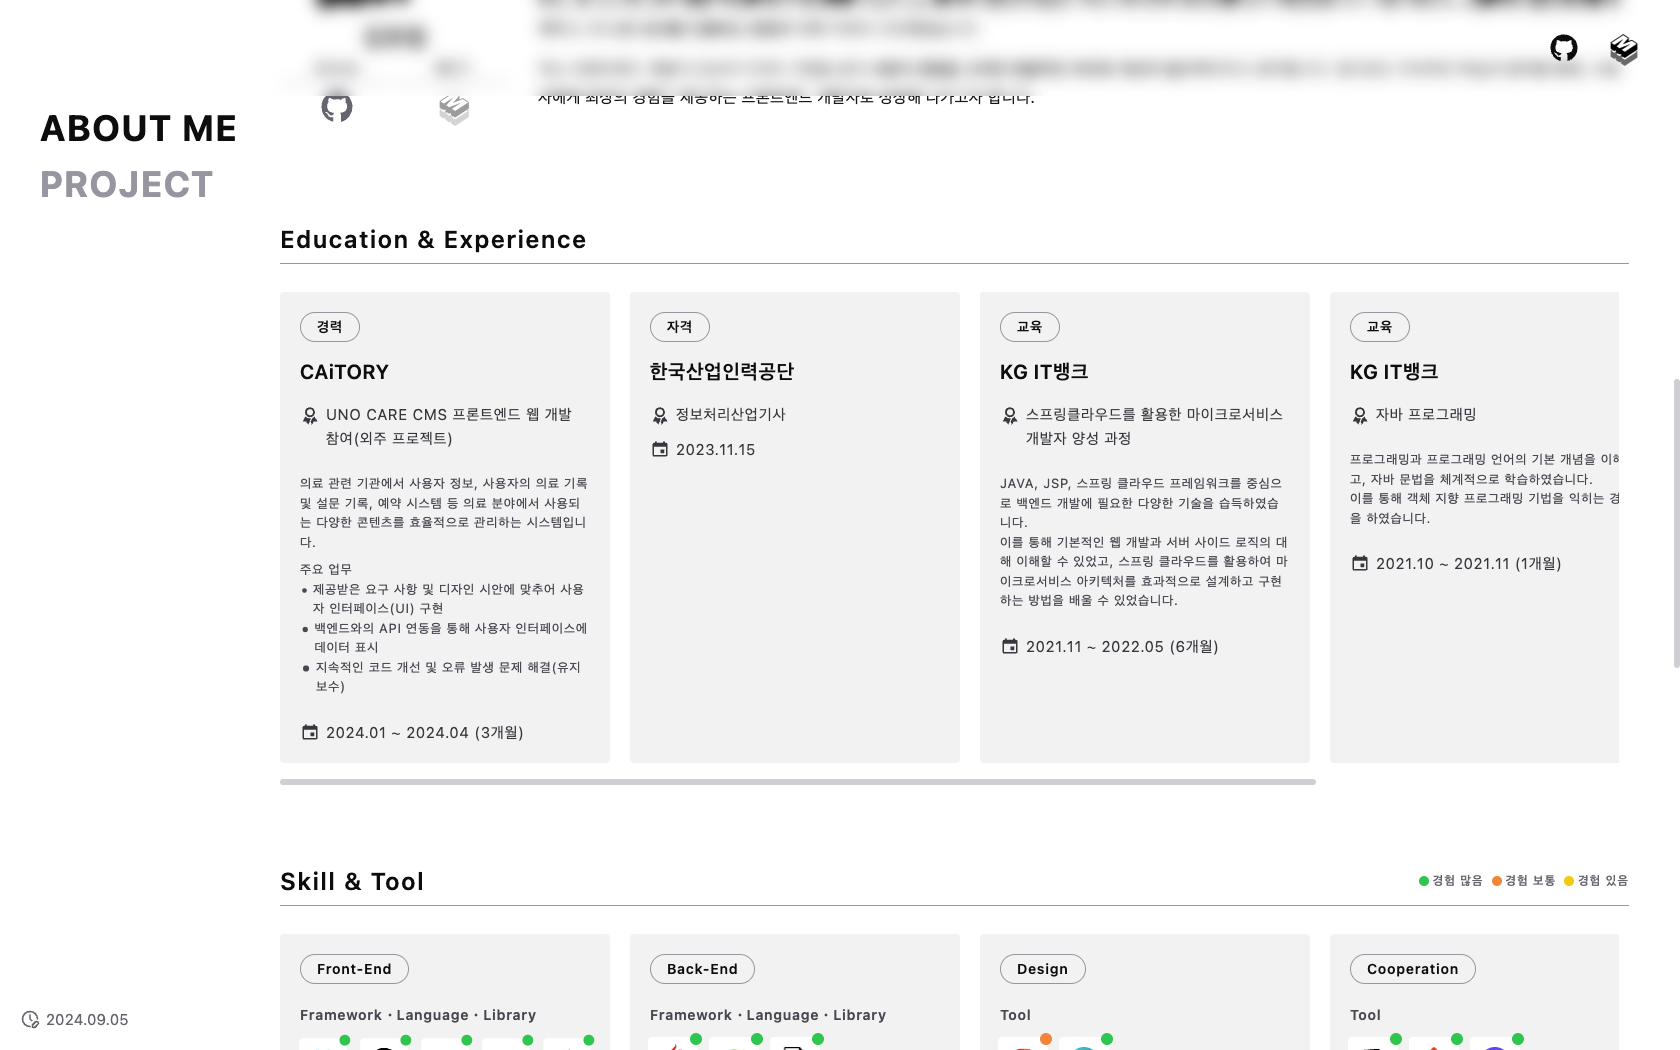
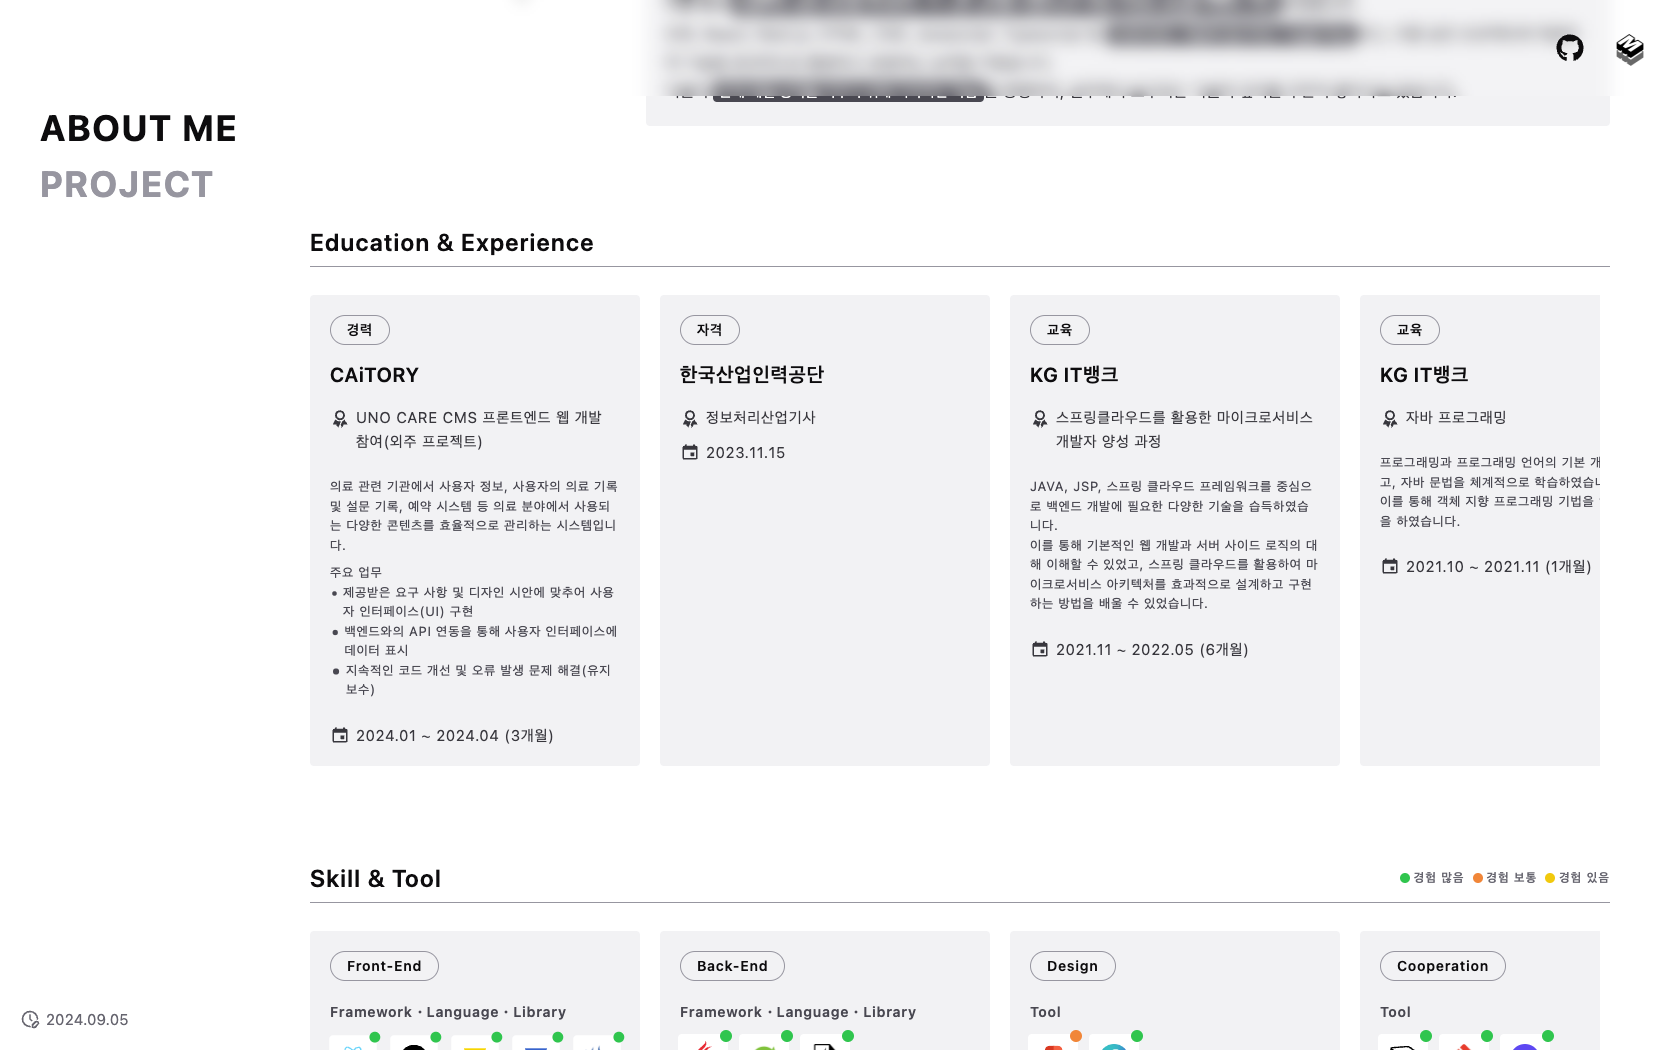
update

diff --git a/src/css/globals.css b/src/css/globals.css
@@ -16,53 +16,11 @@
         --primary-foreground: 0 0% 98%;
         --secondary: 240 4.8% 95.9%;
         --secondary-foreground: 240 5.9% 10%;
-        --muted: 240 4.8% 95.9%;
-        --muted-foreground: 240 3.8% 46.1%;
-        --accent: 240 4.8% 95.9%;
+        --accent: 240 6% 90%;
         --accent-foreground: 240 5.9% 10%;
         --destructive: 0 84.2% 60.2%;
         --destructive-foreground: 0 0% 98%;
         --border: 240 5.9% 90%;
-        --input: 240 5.9% 90%;
-        --ring: 240 5.9% 10%;
-        /*--background: 0 0% 100%;*/
-        /*--foreground: 0 0% 98%;*/
-        /*--card: 240 10% 3.9%;*/
-        /*--card-foreground: 0 0% 98%;*/
-        /*--popover: 240 10% 3.9%;*/
-        /*--popover-foreground: 0 0% 98%;*/
-        /*--primary: 0 0% 98%;*/
-        /*--primary-foreground: 240 5.9% 10%;*/
-        /*--secondary: 240 5% 84%;*/
-        /*--secondary-foreground: 0 0% 98%;*/
-        /*--muted: 240 5% 84%;*/
-        /*--muted-foreground: 240 5% 64.9%;*/
-        /*--accent: 240 3.7% 15.9%;*/
-        /*--accent-foreground: 0 0% 98%;*/
-        /*--destructive: 0 62.8% 30.6%;*/
-        /*--destructive-foreground: 0 0% 98%;*/
-        /*--border: 240 3.7% 15.9%;*/
-        /*--input: 240 3.7% 15.9%;*/
-        /*--ring: 240 4.9% 83.9%;*/
-        /*--background: 0 0% 100%;*/
-        /*--foreground: 20 14.3% 4.1%;*/
-        /*--card: 0 0% 100%;*/
-        /*--card-foreground: 20 14.3% 4.1%;*/
-        /*--popover: 0 0% 100%;*/
-        /*--popover-foreground: 20 14.3% 4.1%;*/
-        /*--primary: 24 9.8% 10%;*/
-        /*--primary-foreground: 60 9.1% 97.8%;*/
-        /*--secondary: 60 4.8% 95.9%;*/
-        /*--secondary-foreground: 24 9.8% 10%;*/
-        /*--muted: 60 4.8% 95.9%;*/
-        /*--muted-foreground: 25 5.3% 44.7%;*/
-        /*--accent: 60 4.8% 95.9%;*/
-        /*--accent-foreground: 24 9.8% 10%;*/
-        /*--destructive: 0 84.2% 60.2%;*/
-        /*--destructive-foreground: 60 9.1% 97.8%;*/
-        /*--border: 20 5.9% 90%;*/
-        /*--input: 20 5.9% 90%;*/
-        /*--ring: 20 14.3% 4.1%;*/
     }
 
     * {
@@ -73,42 +31,6 @@
         @apply bg-background text-foreground;
         margin: 0;
     }
-}
-
-/* 기본 전체 스크롤바 커스텀 */
-::-webkit-scrollbar {
-    width: 6px; /* 스크롤바의 너비 */
-    height: 6px; /* 스크롤바의 너비 */
-}
-
-/* 기본 스크롤바의 트랙(바탕) */
-::-webkit-scrollbar-track {
-    background: hsl(var(--background)); /* 트랙의 색상 */
-}
-
-/* 기본 스크롤바의 슬라이더(움직이는 부분) */
-::-webkit-scrollbar-thumb {
-    background-color: #d4d4d8; /* 슬라이더의 색상 */
-    border-radius: 10px; /* 슬라이더의 둥글기 */
-    border: 3px solid #d4d4d8; /* 슬라이더의 테두리 및 트랙과의 간격 */
-}
-
-/* Project_상세 뷰 스크롤바 전체 */
-.overflow-y-auto::-webkit-scrollbar {
-    width: 6px; /* 스크롤바의 너비 */
-    height: 6px; /* 스크롤바의 높이 */
-}
-
-/* Project_상세 뷰 스크롤바 트랙(바탕) */
-.overflow-y-auto::-webkit-scrollbar-track {
-    background: hsl(var(--secondary)); /* 트랙의 색상 */
-}
-
-/* Project_상세 뷰 스크롤바 슬라이더(움직이는 부분) */
-.overflow-y-auto::-webkit-scrollbar-thumb {
-    background-color: #a1a1aa; /* 슬라이더의 색상 */
-    border-radius: 10px; /* 슬라이더의 둥글기 */
-    border: 3px solid #a1a1aa; /* 슬라이더의 테두리 및 트랙과의 간격 */
 }
 
 /* 메인 페이지 스크롤 버튼 효과 */

diff --git a/src/app/page.tsx b/src/app/page.tsx
@@ -4,6 +4,9 @@ import Content from "@/components/Content";
 import {useEffect, useState} from "react";
 import "animate.css";
 import {MdKeyboardArrowDown} from "react-icons/md";
+import {Separator} from "@/components/ui/separator";
+import {BsMouse} from "react-icons/bs";
+import {TbHandClick} from "react-icons/tb";
 
 const Home = () => {
 
@@ -111,10 +114,10 @@ const Home = () => {
                     </div>
 
                     <div
-                        className="fixed min-w-[100vw] min-h-[100vh] animate__animated animate__slideInUp delay-5300">
-                        <div className="w-[100%]">
-                            <div className="hover__wrap flex justify-center items-end mb-[50px] h-[100vh]">
-                                <div className="hover__updown cursor-pointer" onClick={handleDown}>
+                        className="fixed flex flex-col justify-end items-center min-h-[100vh] min-w-[100vw]">
+                        <div className="animate__animated animate__slideInUp delay-5300">
+                            <div className="hover__wrap">
+                                <div className="hover__updown cursor-pointer pb-20" onClick={handleDown}>
                                     <figure className="front">
                                         <div
                                             className="flex flex-col justify-center items-center w-[90px] h-[90px] bg-transparent shadow-md rounded-full">
@@ -123,10 +126,14 @@ const Home = () => {
                                     </figure>
                                     <figure className="back">
                                         <div
-                                            className="w-[90px] h-[90px] bg-white bg-opacity-20 shadow-md rounded-full"></div>
+                                            className="w-[90px] h-[90px] bg-transparent shadow-md rounded-full"></div>
                                         <figcaption
-                                            className="bg-white bg-opacity-30 w-[120%] h-[120%] shadow-md rounded-full absolute flex flex-col justify-center items-center">
-                                            <div className="text-zinc-700">Click or Scroll</div>
+                                            className="bg-white bg-opacity-20 w-[120%] h-[120%] shadow-md rounded-full absolute flex flex-col justify-center items-center">
+                                            <div className="flex items-center text-zinc-600 space-x-1.5">
+                                                <TbHandClick className="stroke-[1.5px] w-7 h-7"/>
+                                                <Separator orientation="vertical" className="p-[1px] h-[17px] bg-zinc-400 rounded"/>
+                                                <BsMouse className="w-7 h-7"/>
+                                            </div>
                                         </figcaption>
                                     </figure>
                                 </div>

diff --git a/src/components/Content_TopBar.tsx b/src/components/Content_TopBar.tsx
@@ -22,7 +22,7 @@ const ContentTopBar = ({isScrollEqualToScreenHeight, handleTab}: ContentTopBarPr
                 <div className="flex lg:hidden space-x-1">
                     <Button
                         variant="ghost"
-                        className={`${activeTab === "about" ? `bg-muted` : ``} h-fit w-fit rounded duration-300`}
+                        className={`${activeTab === "about" ? `bg-accent` : ``} h-fit w-fit rounded duration-300`}
                         onClick={() => handleTab("about")}
                     >
                         <span className="text-md tracking-wider font-bold">About</span>
@@ -30,7 +30,7 @@ const ContentTopBar = ({isScrollEqualToScreenHeight, handleTab}: ContentTopBarPr
 
                     <Button
                         variant="ghost"
-                        className={`${activeTab === "project" ? `bg-muted` : ``} h-fit w-fit rounded duration-300`}
+                        className={`${activeTab === "project" ? `bg-accent` : ``} h-fit w-fit rounded duration-300`}
                         onClick={() => handleTab("project")}
                     >
                         <span className="text-md tracking-wider font-bold">Project</span>

diff --git a/src/components/Content.tsx b/src/components/Content.tsx
@@ -101,7 +101,7 @@ const Content = () => {
                         </Button>
                     </div>
 
-                    <div className="flex flex-1 flex-col mt-[100px] mx-4 sm:mx-10 lg:ml-[250px] lg:mr-[30px] 2xl:ml-[290px] 2xl:mr-[45px]">
+                    <div className="flex flex-1 flex-col mt-[100px] mx-4 sm:mx-10 lg:ml-[260px] lg:mr-[50px] 2xl:ml-[310px] 2xl:mr-[70px]">
                         <div id="about" ref={aboutRef}>
                             <ContentAbout/>
                         </div>
@@ -115,7 +115,7 @@ const Content = () => {
                     <div
                         className={`${isScrollEqualToScreenHeight ? 'fixed' : 'absolute'} hidden lg:flex items-center space-x-1.5 bottom-5 left-5 z-50 text-zinc-500`}>
                         <TbClockEdit className="w-5 h-5"/>
-                        <div className="tracking-wide text-[15px]">2024.09.05</div>
+                        <div className="tracking-wide text-[15px]">2024.09.06</div>
                     </div>
                 </div>
             </div>

diff --git a/src/components/aboutme/Profile.tsx b/src/components/aboutme/Profile.tsx
@@ -53,7 +53,7 @@ const Profile = () => {
             </div>
 
             <div
-                className="flex flex-col h-fit tracking-wide py-5 pr-2 text-[15px] 2xl:text-[16px] text-zinc-700 space-y-5">
+                className="flex flex-col h-fit tracking-wide py-5 text-[15px] 2xl:text-[16px] text-zinc-700 space-y-5">
                 <div className="bg-secondary rounded p-5 leading-[25px] md:leading-7">
                     <div className="flex flex-shrink-0 items-start space-x-1 mb-2">
                         <FaChildReaching className="w-4 h-4 mt-1.5"/>
